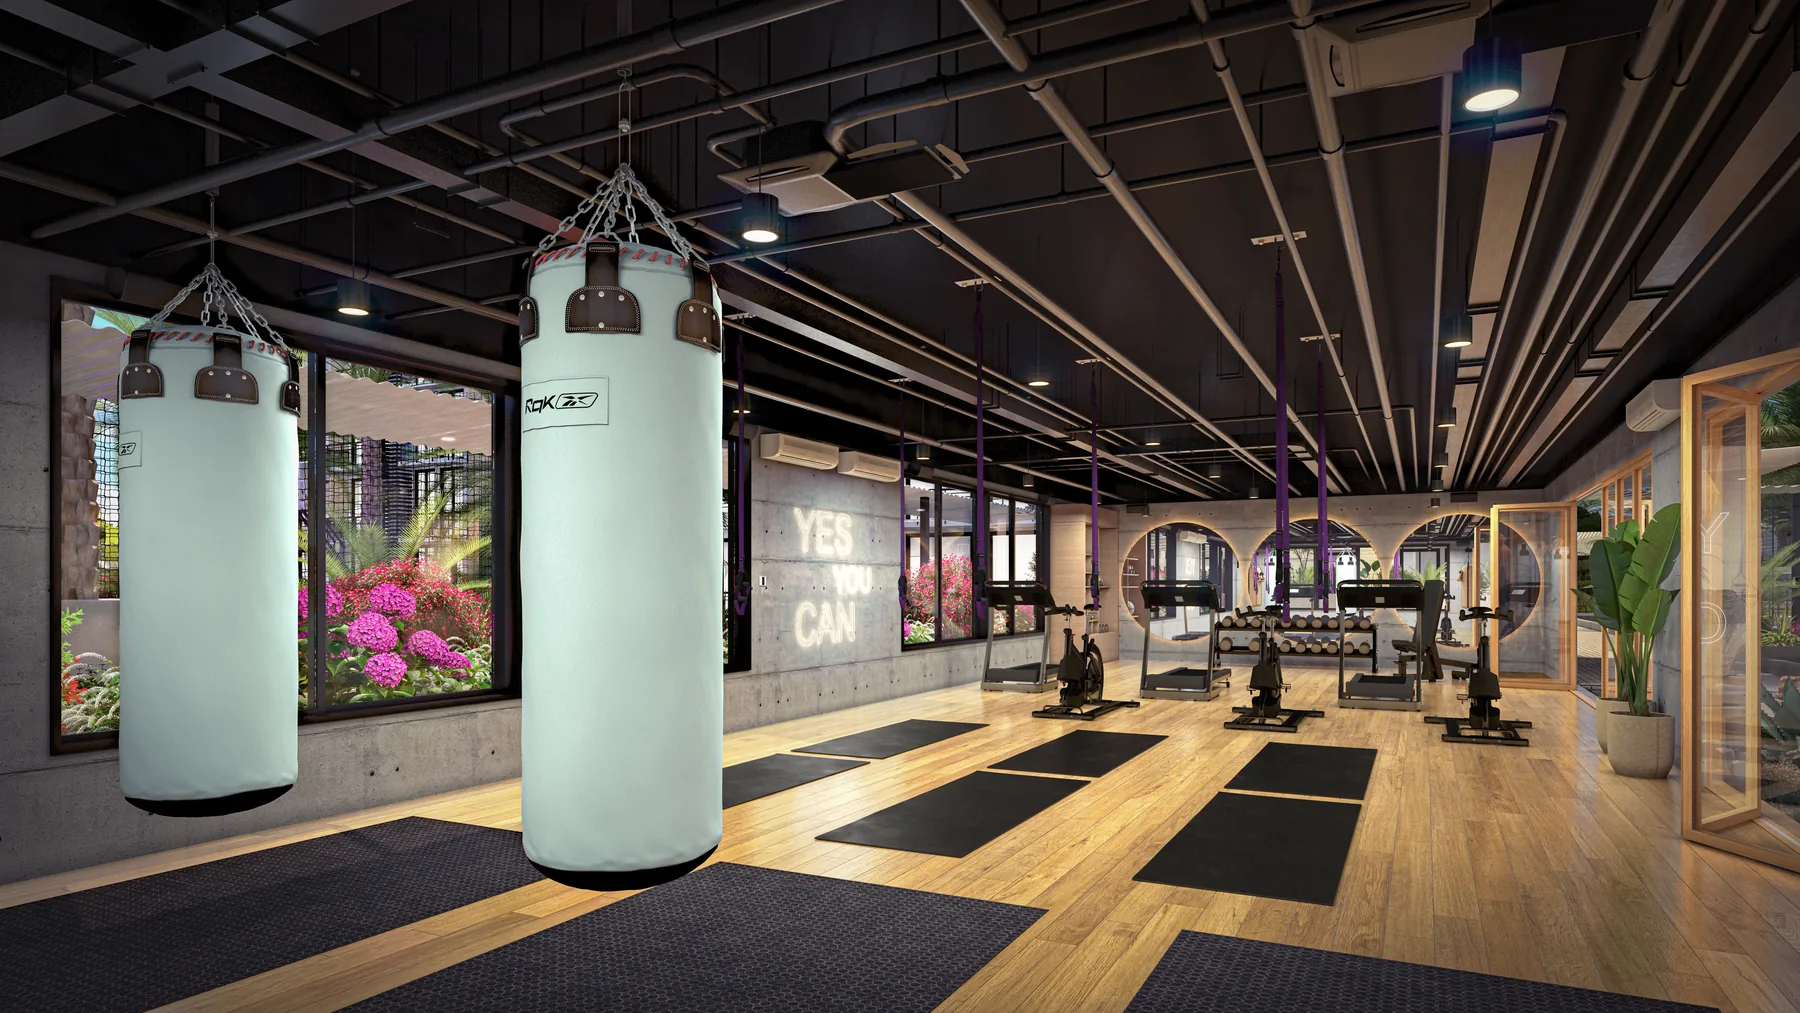
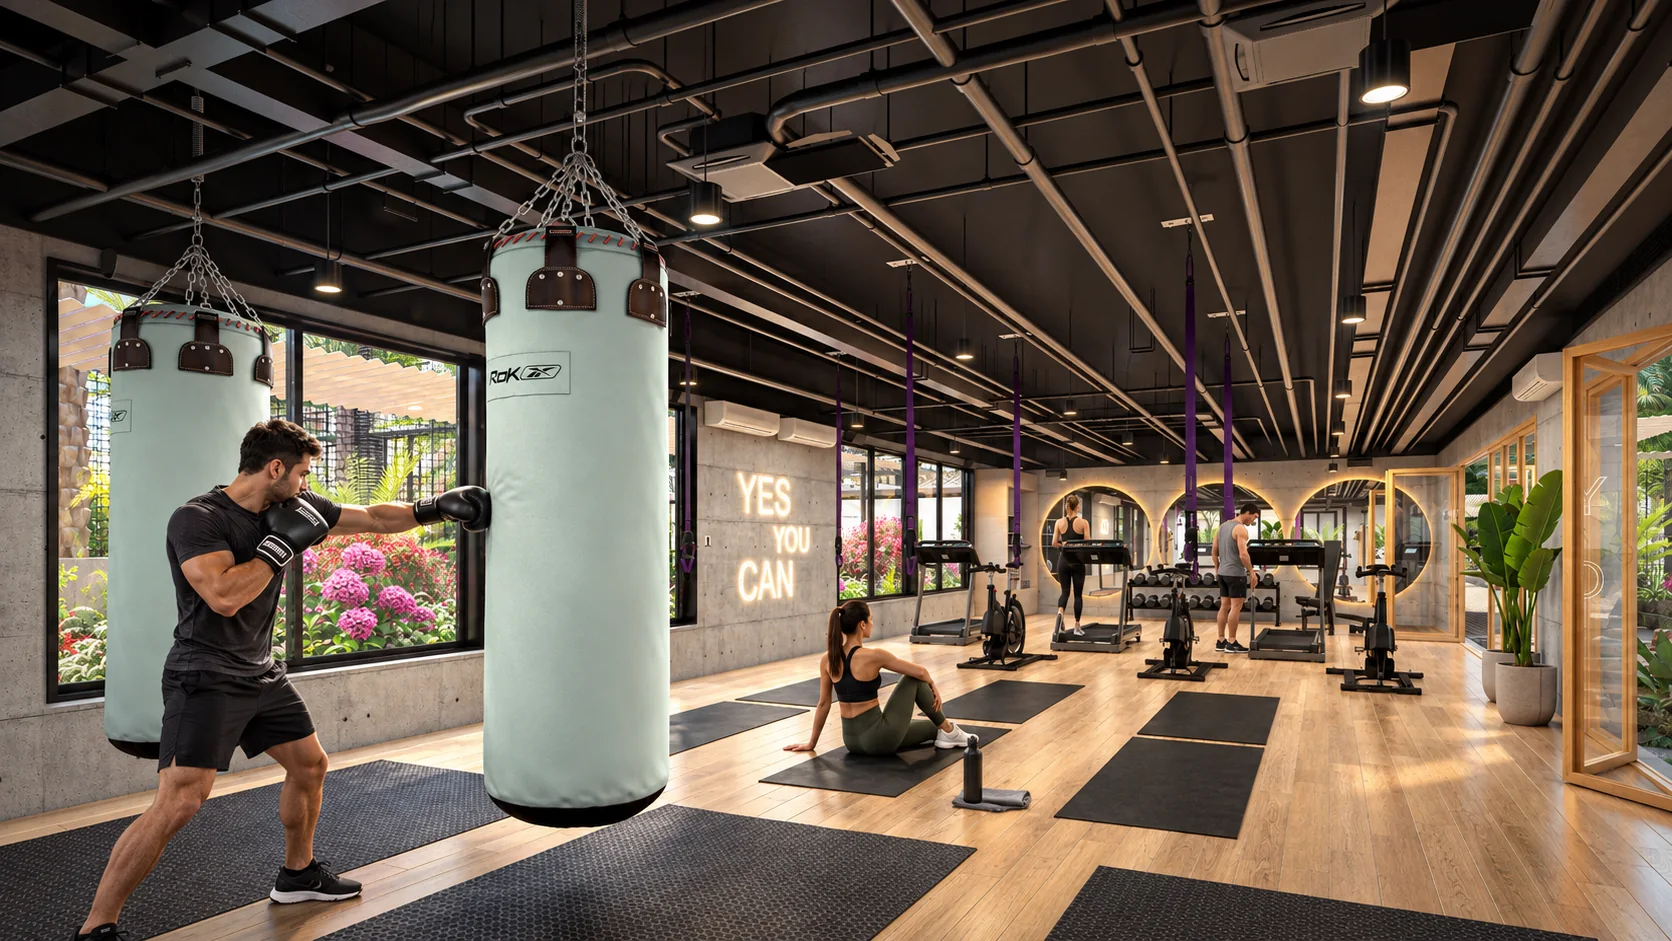
Orgánico: renders nuevos del deck de yoga y del gimnasio
Claude-Session: https://claude.ai/code/session_01DbQSkjawgEFXXi1NfzF7dw

diff --git a/index.html b/index.html
@@ -100,7 +100,7 @@
   <link rel="preconnect" href="https://fonts.googleapis.com" />
   <link rel="preconnect" href="https://fonts.gstatic.com" crossorigin />
   <link href="https://fonts.googleapis.com/css2?family=Poppins:ital,wght@0,300;0,400;0,500;0,600;0,700;0,800;1,300&display=swap" rel="stylesheet" />
-  <link rel="stylesheet" href="assets/css/styles.css?v=20261004c" />
+  <link rel="stylesheet" href="assets/css/styles.css?v=20261004d" />
 </head>
 <body>
 
@@ -403,21 +403,21 @@
             <p class="zpanel-tag">Orgánico</p>
             <h3>Mente y cuerpo</h3>
             <ul class="zdet">
-              <li><span class="zdet-item"><img src="assets/img/icono-pilates.png" alt="" width="132" height="132" loading="lazy" /><span>Deck de Pilates</span></span></li>
+              <li><button type="button" class="zdet-item" data-zimg="yoga"><img src="assets/img/icono-pilates.png" alt="" width="132" height="132" loading="lazy" /><span>Deck de Pilates</span></button></li>
               <li><button type="button" class="zdet-item" data-zimg="yoga"><img src="assets/img/icono-yoga.png" alt="" width="132" height="132" loading="lazy" /><span>Deck de Yoga</span></button></li>
-              <li><span class="zdet-item"><img src="assets/img/icono-trx.png" alt="" width="132" height="132" loading="lazy" /><span>Zona TRX</span></span></li>
+              <li><button type="button" class="zdet-item" data-zimg="gym"><img src="assets/img/icono-trx.png" alt="" width="132" height="132" loading="lazy" /><span>Zona TRX</span></button></li>
               <li><button type="button" class="zdet-item" data-zimg="gym"><img src="assets/img/icono-gym.png" alt="" width="132" height="132" loading="lazy" /><span>Gym Semidotado</span></button></li>
               <li><span class="zdet-item"><img src="assets/img/icono-muro-escalar.png" alt="" width="132" height="132" loading="lazy" /><span>Muro de Escalar</span></span></li>
             </ul>
           </div>
           <div class="zviewer" data-zviewer>
             <div class="zviewer-stage">
-              <figure class="zviewer-fig is-shown" data-zfig="yoga"><img src="assets/img/organico-1.webp" alt="Zona de yoga de Cielo Apartamentos, al aire libre y rodeada de vegetación" width="1800" height="1013" loading="lazy" /><figcaption>Deck de yoga</figcaption></figure>
-              <figure class="zviewer-fig" data-zfig="gym"><img src="assets/img/organico-2.webp" alt="Gimnasio de Cielo Apartamentos, equipado y con ventanales al exterior" width="1800" height="1013" loading="lazy" /><figcaption>Gimnasio</figcaption></figure>
+              <figure class="zviewer-fig is-shown" data-zfig="yoga"><img src="assets/img/organico-1.webp" alt="Deck de yoga y pilates de Cielo: cuatro personas practicando sobre colchonetas en un deck de madera bajo pérgola, con lámparas tejidas, jardineras y el gimnasio al fondo" width="1672" height="941" loading="lazy" /><figcaption>Deck de yoga y pilates</figcaption></figure>
+              <figure class="zviewer-fig" data-zfig="gym"><img src="assets/img/organico-2.webp" alt="Gimnasio de Cielo: sacos de boxeo, correas de TRX colgadas del techo, trotadoras, bicicletas y pesas, con ventanales al jardín" width="1672" height="941" loading="lazy" /><figcaption>Gimnasio y zona TRX</figcaption></figure>
             </div>
             <div class="zviewer-thumbs">
-              <button type="button" class="zviewer-thumb is-on" data-zimg="yoga" aria-label="Ver el deck de yoga"><img src="assets/img/organico-1.webp" alt="" width="1800" height="1013" loading="lazy" /></button>
-              <button type="button" class="zviewer-thumb" data-zimg="gym" aria-label="Ver el gimnasio"><img src="assets/img/organico-2.webp" alt="" width="1800" height="1013" loading="lazy" /></button>
+              <button type="button" class="zviewer-thumb is-on" data-zimg="yoga" aria-label="Ver el deck de yoga"><img src="assets/img/organico-1.webp" alt="" width="1672" height="941" loading="lazy" /></button>
+              <button type="button" class="zviewer-thumb" data-zimg="gym" aria-label="Ver el gimnasio"><img src="assets/img/organico-2.webp" alt="" width="1672" height="941" loading="lazy" /></button>
             </div>
           </div>
         </article>
@@ -983,7 +983,7 @@
     <p class="footer-copy">© 2026 Cielo Apartamentos · Construcciones Urbanas. Todos los derechos reservados.</p>
   </footer>
 
-  <script src="assets/js/main.js?v=20261004c" defer></script>
+  <script src="assets/js/main.js?v=20261004d" defer></script>
   <!-- autoajusta la altura del iframe del calendario (#agenda) al contenido -->
   <script src="https://api.leadconnectorhq.com/js/form_embed.js" type="text/javascript"></script>
 </body>
